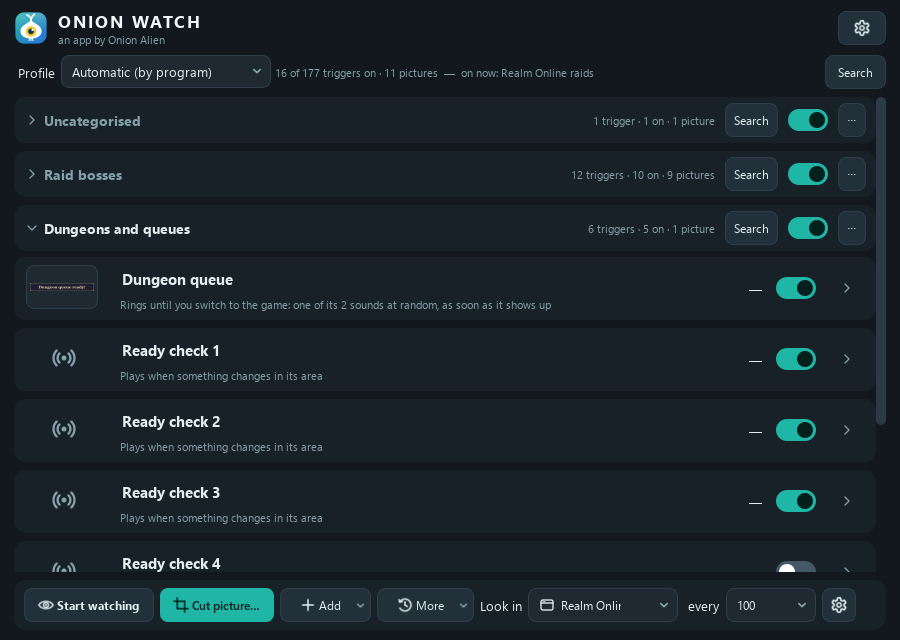
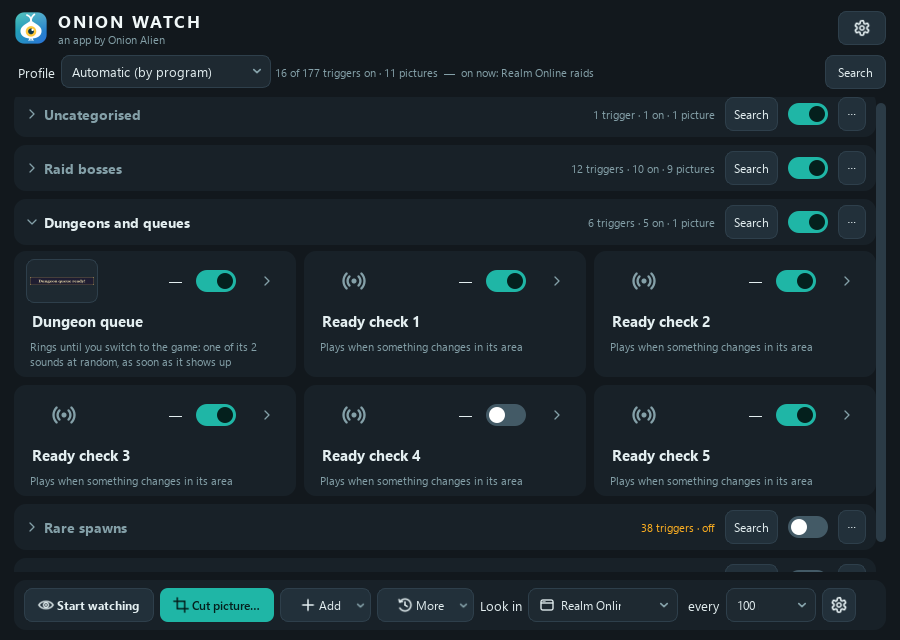
Trigger list: closed cards are tiles in a grid, like the sound pads
A category's closed cards now sit side by side, as many to a line as
fit (each at least 260 px), with the pictures and switch over the name
and what it does. An open card takes the whole width on a line of its
own, its header back on one line. No more full-width rows of empty
space.

diff --git a/onionwatch/ui/triggerspanel.py b/onionwatch/ui/triggerspanel.py
@@ -29,9 +29,9 @@ import numpy as np
 from PySide6.QtCore import QEvent, QPoint, QRect, QSize, Qt, QTimer, Signal
 from PySide6.QtGui import QColor, QFontMetrics, QIcon, QImage, QKeySequence, QPixmap, QShortcut
 from PySide6.QtWidgets import (QApplication, QBoxLayout, QCheckBox, QComboBox, QDoubleSpinBox,
-                               QFileDialog, QFrame, QHBoxLayout, QLabel, QLineEdit, QMenu,
-                               QMessageBox, QPushButton, QScrollArea, QSizePolicy, QSpinBox,
-                               QVBoxLayout, QWidget)
+                               QFileDialog, QFrame, QGridLayout, QHBoxLayout, QLabel,
+                               QLineEdit, QMenu, QMessageBox, QPushButton, QScrollArea,
+                               QSizePolicy, QSpinBox, QVBoxLayout, QWidget)
 
 from onionwatch import cutout, owl, packs, profiles, screenwatch, theme, windows
 from onionwatch.screenwatch import (INTERVALS_MS, MAX_PICTURES, MAX_SOUNDS, Monitor, Picture,
@@ -673,7 +673,9 @@ def section_title(icon: str, text: str) -> QPushButton:
 class TriggerRow(QFrame):
     """One trigger's card: a header (pictures, name, what it does, the live match,
     on / off) that opens to three parts: what to watch for, what happens then, and
-    the fine-tuning, folded away behind a line summing it up."""
+    the fine-tuning, folded away behind a line summing it up. Closed, it's a tile in
+    its category's grid (pictures over the name, like a sound pad); open, it's the
+    whole width, the header one line."""
     changed = Signal(object)             # row: a setting changed
     pictures_wanted = Signal(object)     # row: "+ Add pictures…" (files)
     paste_wanted = Signal(object)        # row: "Paste picture"
@@ -709,21 +711,26 @@ class TriggerRow(QFrame):
         v.setSpacing(6)
 
         # the header, always shown: its pictures, name, what it does (or what's wrong),
-        # the live match, on / off, and open / close. Click it to open the rest
-        top = QHBoxLayout()
-        top.setSpacing(14)
+        # the live match, on / off, and open / close. Click it to open the rest.
+        # Laid out by _arrange: on one line while open, the name under the rest closed
+        self.top = top = QGridLayout()
+        top.setHorizontalSpacing(14)
+        top.setVerticalSpacing(4)
+        top.setColumnStretch(1, 1)
         self.strip = Strip()
         self.strip.setToolTip("The pictures to look for: any of them showing up plays the "
                               "sound. Click one to see it big.")
         self.strip.picture_clicked.connect(lambda i: self.picture_view.emit(self, i))
         self.strip.picture_removed.connect(lambda i: self.picture_removed.emit(self, i))
-        top.addWidget(self.strip, 0, Qt.AlignTop)
         self.badge = QLabel()           # instead of the strip, for a trigger without pictures
         self.badge.setObjectName("iconlabel")
         self.badge.setFixedSize(THUMB + QSize(12, 8))   # one thumbnail's slot: names line up
         self.badge.setAlignment(Qt.AlignCenter)
-        top.addWidget(self.badge, 0, Qt.AlignTop)
-        names = QVBoxLayout()
+        self.names = QWidget()
+        self.names.setObjectName("labelled")      # see-through, like labelled()'s boxes
+        self.names.setStyleSheet("QWidget#labelled { background: transparent; }")
+        names = QVBoxLayout(self.names)
+        names.setContentsMargins(0, 0, 0, 0)
         names.setSpacing(4)
         self.name = QLineEdit(t.name)
         # a title until you click it. Styled here, in the palette's colours, rather than
@@ -771,23 +778,25 @@ class TriggerRow(QFrame):
         state_line.addWidget(self.btn_retarget)
         names.addLayout(state_line)
         names.addStretch(1)
-        top.addLayout(names, 1)
         self.live = QLabel("—")
         self.live.setMinimumWidth(48)
         self.live.setAlignment(Qt.AlignRight | Qt.AlignVCenter)
-        top.addWidget(self.live, 0, Qt.AlignVCenter)
         self.chk_on = Switch()
         self.chk_on.setToolTip("Watch for this trigger (switch it off to keep it but pause it)")
         self.chk_on.setChecked(t.enabled)
         self.chk_on.toggled.connect(self._on_enabled)
-        top.addWidget(self.chk_on, 0, Qt.AlignVCenter)
         self.btn_open = QPushButton()
         self.btn_open.setObjectName("fold")
         self.btn_open.setCheckable(True)
         self.btn_open.setFixedSize(34, 34)
         self.btn_open.setAccessibleName("Edit trigger")
         self.btn_open.toggled.connect(self.set_open)
-        top.addWidget(self.btn_open, 0, Qt.AlignVCenter)
+        top.addWidget(self.strip, 0, 0, Qt.AlignTop | Qt.AlignLeft)
+        top.addWidget(self.badge, 0, 0, Qt.AlignTop | Qt.AlignLeft)
+        top.addWidget(self.live, 0, 2, Qt.AlignVCenter)
+        top.addWidget(self.chk_on, 0, 3, Qt.AlignVCenter)
+        top.addWidget(self.btn_open, 0, 4, Qt.AlignVCenter)
+        self._tile: bool | None = None      # how the header is laid out now (_arrange)
         v.addLayout(top)
 
         self.body = QWidget()
@@ -1013,6 +1022,7 @@ class TriggerRow(QFrame):
         self.cb_category.activated.connect(self._on_category)
         row.addWidget(labelled("Category", self.cb_category))
         tune_col.addWidget(self.tune)
+        v.addStretch(1)     # a tile taller than it needs (its line's tallest): space below
         for w in (self.delay, self.cooldown, self.hold, self.threshold):
             no_wheel(w)
             w.valueChanged.connect(self._on_numbers)
@@ -1050,6 +1060,7 @@ class TriggerRow(QFrame):
     def set_open(self, on: bool):
         """Show the whole card, or just its header."""
         self.body.setVisible(on)
+        self._arrange(not on)
         if self.btn_open.isChecked() != on:
             self.btn_open.blockSignals(True)
             self.btn_open.setChecked(on)
@@ -1057,7 +1068,26 @@ class TriggerRow(QFrame):
         icons.set_icon(self.btn_open, "fold_open" if on else "fold", "muted", "muted", size=16)
         self.btn_open.setToolTip("Close this trigger" if on else "Open this trigger to change it")
 
+    def _arrange(self, tile: bool):
+        """The header as a tile's (pictures and switch over the name and what it does)
+        or on one line (the card's open, the whole width)."""
+        if tile == self._tile:
+            return
+        self._tile = tile
+        self.top.removeWidget(self.names)
+        if tile:
+            self.top.addWidget(self.names, 1, 0, 1, 5)
+        else:
+            self.top.addWidget(self.names, 0, 1)
+        self.state.setWordWrap(tile)        # two lines of it, not one cut short
+        self.state.setMaximumHeight(2 * self.state.fontMetrics().lineSpacing() + 2
+                                    if tile else 16777215)
+        self._narrow = None             # re-decided for the new layout
+        self._fit_narrow()
+        self.updateGeometry()
+
     NARROW = 380        # px: below this the header's thumbnail goes, for the rest to fit
+    NARROW_TILE = 230   # ...a tile's: its first line is only the thumbnail and switches
 
     def changeEvent(self, ev):
         super().changeEvent(ev)
@@ -1070,15 +1100,18 @@ class TriggerRow(QFrame):
 
     def resizeEvent(self, ev):
         super().resizeEvent(ev)
-        narrow = self.width() < self.NARROW
-        if narrow != self._narrow:
-            self._narrow = narrow
-            self._show_thumb()
+        self._fit_narrow()
         # Duplicate / Delete share Fine-tune's line: shorter a bit before the card is
         # narrow, or that line would stop it getting any narrower
         short = self.width() < self.NARROW + 80
         self.btn_dup.setText("Copy" if short else "Duplicate")
         self.btn_del.setText("" if short else "Delete")
+
+    def _fit_narrow(self):
+        narrow = self.width() < (self.NARROW_TILE if self._tile else self.NARROW)
+        if narrow != self._narrow:
+            self._narrow = narrow
+            self._show_thumb()
 
     def _show_thumb(self):
         """The header's pictures (or the badge of a trigger without), unless the card

diff --git a/onionwatch/ui/categories.py b/onionwatch/ui/categories.py
@@ -3,17 +3,69 @@ a category's section in the list (a header to fold it, switch it on or off and
 open its menu, over its trigger cards) and the Profiles window."""
 from __future__ import annotations
 
-from PySide6.QtCore import Qt, Signal
+from PySide6.QtCore import QRect, Qt, Signal
 from PySide6.QtWidgets import (QComboBox, QDialog, QDialogButtonBox, QFrame, QHBoxLayout,
                                QLineEdit, QListWidget, QListWidgetItem, QMenu, QPushButton,
-                               QVBoxLayout, QWidget, QSizePolicy)
+                               QVBoxLayout, QWidget, QWidgetItem, QSizePolicy)
 
 from onionwatch import profiles
 from onionwatch.profiles import Profile
 from onionwatch.ui import icons
-from onionwatch.ui.panel import hint_label, section_label
+from onionwatch.ui.panel import Flow, hint_label, section_label
 
 NAME = Qt.UserRole              # a list item's category name / profile id / exe
+TILE = 260                      # px: the least a closed card (a tile in the grid) is wide
+
+
+def _height(item, w: int) -> int:
+    """How tall `item` is at width `w` (its height there, not at its preferred width)."""
+    h = item.heightForWidth(w) if item.hasHeightForWidth() else -1
+    return max(h if h >= 0 else item.sizeHint().height(), item.minimumSize().height())
+
+
+class CardGrid(Flow):
+    """A category's cards as tiles, as many to a line as fit (like the sound pads):
+    a closed card is a tile, all of a line as tall as its tallest. An open card,
+    and anything else in it (the "empty" note), has a line of its own, the whole
+    width. The cards stay in their order."""
+
+    def insertWidget(self, i: int, w: QWidget):
+        self.addChildWidget(w)
+        self._items.insert(max(0, min(i, len(self._items))), QWidgetItem(w))
+        self.invalidate()
+
+    def columns(self, width: int) -> int:
+        return max(1, (width + self._gap) // (TILE + self._gap))
+
+    def _place(self, rect: QRect, move: bool) -> int:
+        cols = self.columns(rect.width())
+        cw = max(1, (rect.width() - self._gap * (cols - 1)) // cols)
+        y, line = rect.y(), []
+
+        def put(items, w):
+            nonlocal y
+            h = max(_height(it, w) for it in items)
+            if move:
+                for k, it in enumerate(items):
+                    it.setGeometry(QRect(rect.x() + k * (w + self._gap), y, w, h))
+            y += h + self._gap
+
+        for it in self._items:
+            if it.isEmpty():
+                continue
+            if getattr(it.widget(), "is_open", True):     # a line of its own
+                if line:
+                    put(line, cw)
+                    line = []
+                put([it], rect.width())
+            else:
+                line.append(it)
+                if len(line) == cols:
+                    put(line, cw)
+                    line = []
+        if line:
+            put(line, cw)
+        return max(0, y - self._gap - rect.y())
 
 
 class CategorySection(QWidget):
@@ -28,7 +80,7 @@ class CategorySection(QWidget):
 
     def __init__(self, name: str):
         super().__init__()
-        from onionwatch.ui.triggerspanel import Switch   # (that module imports this one)
+        from onionwatch.ui.triggerspanel import FlowBox, Switch   # (it imports this one)
         self.name = name
         self.built = False              # its cards have been made
         v = QVBoxLayout(self)
@@ -71,10 +123,8 @@ class CategorySection(QWidget):
         align_control(self.btn_menu)
         h.addWidget(self.btn_menu)
         v.addWidget(self.header)
-        self.body = QWidget()
-        self.body_layout = QVBoxLayout(self.body)
-        self.body_layout.setContentsMargins(0, 0, 0, 0)
-        self.body_layout.setSpacing(8)
+        self.body = FlowBox(gap=8, flow_type=CardGrid)
+        self.body_layout = self.body.flow
         self.empty = hint_label("No triggers in this category yet. Move one here with "
                                 "Category, under a trigger's Fine-tune.")
         self.body_layout.addWidget(self.empty)

diff --git a/tests/test_card_layout.py b/tests/test_card_layout.py
@@ -116,3 +116,21 @@ def test_a_small_picture_is_shown_in_whole_pixels(qapp):
     assert pv.zoom() == 8
     pv.set_image(as_qimage(banner()[:4, :4]))
     assert pv.zoom() == MAX_ZOOM
+
+
+def test_closed_cards_are_tiles_side_by_side_an_open_one_the_whole_width(tab, qapp):
+    rows = [new_card(tab) for _ in range(4)]
+    for r in rows:
+        r.set_open(False)
+    rows[2].set_open(True)
+    tab.resize(1000, 2000)
+    tab.show()
+    for _ in range(8):
+        qapp.processEvents()
+    a, b, c, d = (r.geometry() for r in rows)
+    assert a.y() == b.y() and b.x() > a.right()          # two tiles on a line
+    assert a.width() < c.width() and c.y() > a.bottom()  # the open one under, wider
+    assert d.y() > c.bottom()                            # and the rest after it
+    assert rows[2].names.y() < rows[2].body.y()          # its header on one line
+    assert rows[0].names.y() > rows[0].chk_on.y()        # a tile's name under its switch
+    tab.hide()
